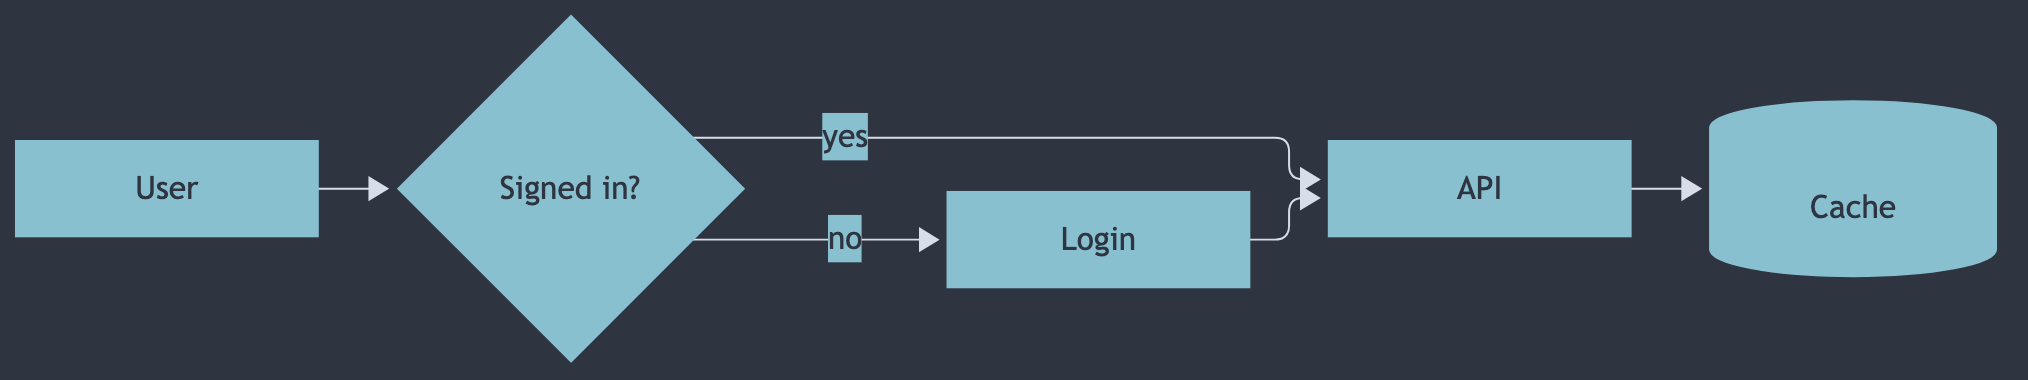
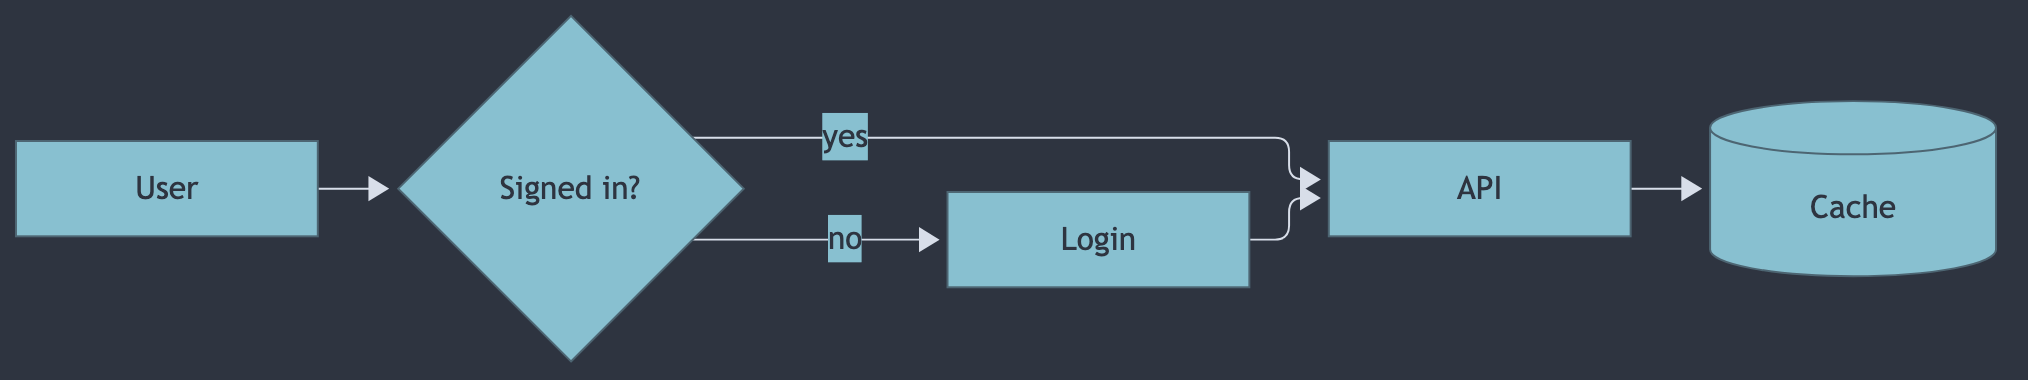
Pictures: borders a darker rim of each fill, so a cylinder's lid shows
Mermaid draws a shape's outline, and the lines inside it (a cylinder's
lid, a class's compartments, an entity's rows), in its border color.
Borders took the fill's own color, which hid those lines; each is now
its fill toned toward the canvas until it reads on the fill.

Refs #58

diff --git a/hooks/picture-theme.ts b/hooks/picture-theme.ts
@@ -182,6 +182,20 @@ function eventPairs(pairs: Pairs, i: number, label: string, fill: string, extra:
   return label
 }
 
+// A filled shape's border: its fill toned toward the canvas, as far as it takes to read on the fill. Mermaid draws the
+// lines inside a shape in it too, a cylinder's lid, a class's compartments, an entity's rows, so a border the color of
+// the fill would hide them; toned, the outline reads as a darker rim of the same color.
+function rim(fill: string, canvas: string): string {
+  for (let t = 0.95; t > 0; t -= 0.05) {
+    const c = mix(fill, canvas, t)
+    if (contrast(c, fill) >= MIN) {
+      return c
+    }
+  }
+
+  return canvas
+}
+
 // A curated palette's theme on Mermaid's base theme.
 function curated(look: Curated): PictureTheme {
   const p = THEMES[look]
@@ -205,11 +219,14 @@ function curated(look: Curated): PictureTheme {
   }
 
   // Nodes, and the edge labels Mermaid draws in the same text color: a label chip is filled like a node, so one color
-  // reads on both.
-  v.primaryColor = v.mainBkg = v.nodeBkg = v.primaryBorderColor = v.nodeBorder = v.stateBorder = r.node
+  // reads on both. The border, with the lines inside a shape, as a darker rim of each fill.
+  const border = (what: string, f: string) => pairs.on(what, rim(f, bg), f)
+  v.primaryColor = v.mainBkg = v.nodeBkg = r.node
+  v.primaryBorderColor = v.nodeBorder = v.stateBorder = border('node borders and inner lines', r.node)
   v.edgeLabelBackground = r.node
   v.nodeTextColor = v.primaryTextColor = text('node and edge label text', fill, r.node)
-  v.secondaryColor = v.secondaryBorderColor = r.decision
+  v.secondaryColor = r.decision
+  v.secondaryBorderColor = border('decision borders', r.decision)
   v.secondaryTextColor = text('secondary text', fill, r.decision)
   v.tertiaryColor = surface
   v.tertiaryTextColor = text('subgraph title', r.title, surface)
@@ -229,17 +246,20 @@ function curated(look: Curated): PictureTheme {
   // A composite state's title bar: node-colored, so the state label color reads on it as on a state.
   v.compositeTitleBackground = r.node
   // Notes.
-  v.noteBkgColor = v.noteBorderColor = r.note
+  v.noteBkgColor = r.note
+  v.noteBorderColor = border('note borders', r.note)
   v.noteTextColor = text('note text', fill, r.note)
 
   // Sequence: actors like nodes, activations in the decision color, messages in the edge color. A loop box is lines;
   // only its label tab is filled.
-  v.actorBkg = v.actorBorder = r.node
+  v.actorBkg = r.node
+  v.actorBorder = border('actor borders', r.node)
   v.actorTextColor = text('actor text', fill, r.node)
   v.actorLineColor = line('lifelines', r.edge, bg)
   v.signalColor = line('messages', r.edge, bg)
   v.signalTextColor = text('message text', r.label, bg)
-  v.activationBkgColor = v.activationBorderColor = r.decision
+  v.activationBkgColor = r.decision
+  v.activationBorderColor = border('activation borders', r.decision)
   v.labelBoxBkgColor = surface
   v.labelBoxBorderColor = line('loop boxes', r.frame, bg, surface)
   v.labelTextColor = text('loop label', r.frame, surface)
@@ -279,7 +299,8 @@ function curated(look: Curated): PictureTheme {
   v.commitLabelBackground = bg
   v.commitLabelColor = text('commit labels', r.edge, bg)
   v.commitLineColor = line('commit lines', r.edge, bg)
-  v.tagLabelBackground = v.tagLabelBorder = r.decision
+  v.tagLabelBackground = r.decision
+  v.tagLabelBorder = border('tag borders', r.decision)
   v.tagLabelColor = text('tag labels', fill, r.decision)
 
   // Timeline and mindmap: twelve slots, each label on its slot; the last slot's label also draws the connectors.
@@ -309,8 +330,10 @@ function curated(look: Curated): PictureTheme {
   v.sectionBkgColor = v.sectionBkgColor2 = surface
   v.altSectionBkgColor = bg
   v.excludeBkgColor = surface
-  v.taskBkgColor = v.taskBorderColor = r.node
-  v.critBkgColor = v.critBorderColor = r.arrow
+  v.taskBkgColor = r.node
+  v.taskBorderColor = border('task borders', r.node)
+  v.critBkgColor = r.arrow
+  v.critBorderColor = border('critical task borders', r.arrow)
   v.taskTextColor = v.taskTextLightColor = text('gantt task text', fill, r.node, r.arrow)
   // Mermaid writes an active or done task's label in one color inside its bar and beside it, on a section band: so the
   // canvas text color, with the active and done fills toned toward the canvas until it reads on them.

diff --git a/tests/hooks/picture-theme_test.ts b/tests/hooks/picture-theme_test.ts
@@ -300,3 +300,30 @@ test('a curated look sets every theme variable the drawn types read', () => {
     }
   }
 })
+
+// Mermaid draws a shape's outline, and the lines inside it (a cylinder's lid, a class's compartments, an entity's
+// rows), in its border color over its own fill: a border the color of the fill hides them.
+test("every filled shape's border reads on its fill, so a cylinder's lid and a class's compartments show", () => {
+  const borders: [string, string][] = [
+    ['nodeBorder', 'mainBkg'],
+    ['primaryBorderColor', 'primaryColor'],
+    ['stateBorder', 'stateBkg'],
+    ['actorBorder', 'actorBkg'],
+    ['noteBorderColor', 'noteBkgColor'],
+    ['activationBorderColor', 'activationBkgColor'],
+    ['secondaryBorderColor', 'secondaryColor'],
+    ['taskBorderColor', 'taskBkgColor'],
+    ['critBorderColor', 'critBkgColor'],
+    ['tagLabelBorder', 'tagLabelBackground'],
+  ]
+  for (const look of CURATED) {
+    const t = pictureTheme(look)
+    const v = t.config.themeVariables!
+    for (const [border, fill] of borders) {
+      assert.ok(
+        t.pairs.some((p) => p.ink === v[border] && p.on === v[fill]),
+        `${look} ${border} on ${fill}: ${v[border]} on ${v[fill]}`,
+      )
+    }
+  }
+})
